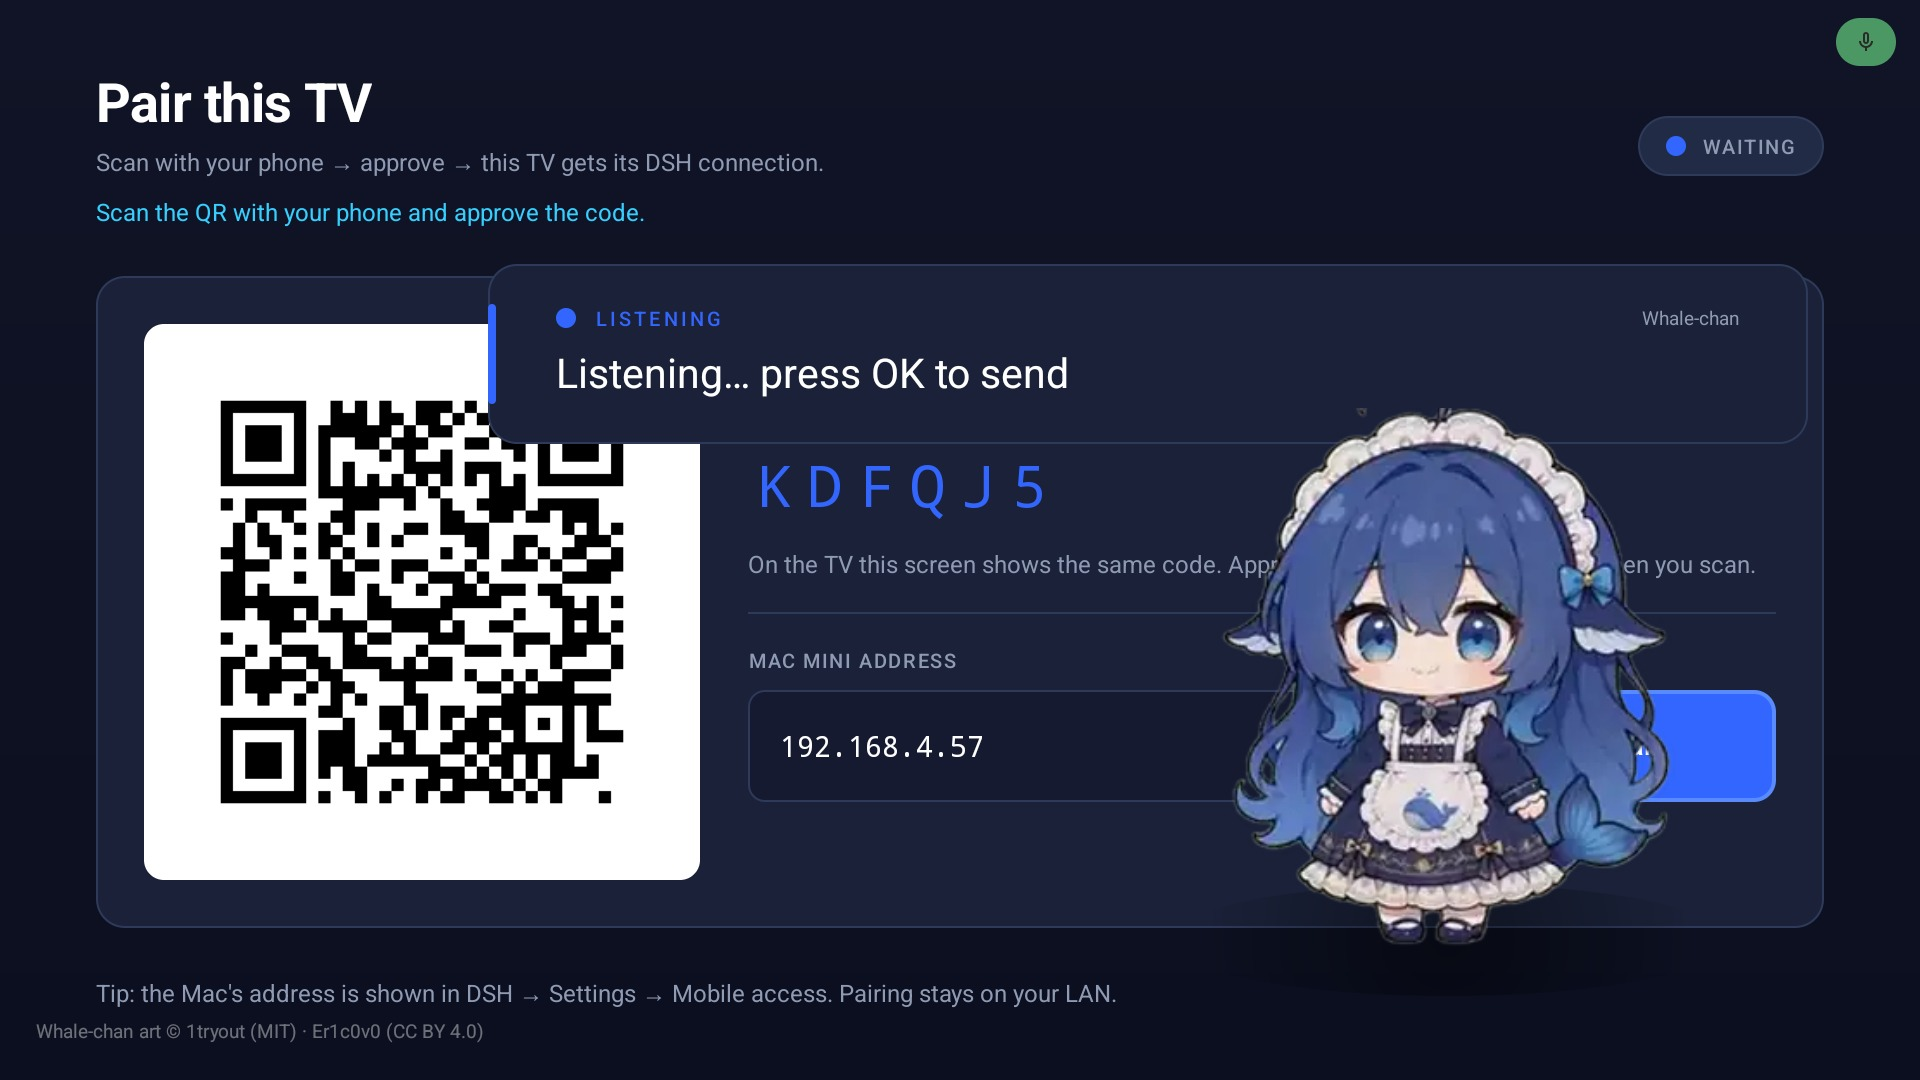
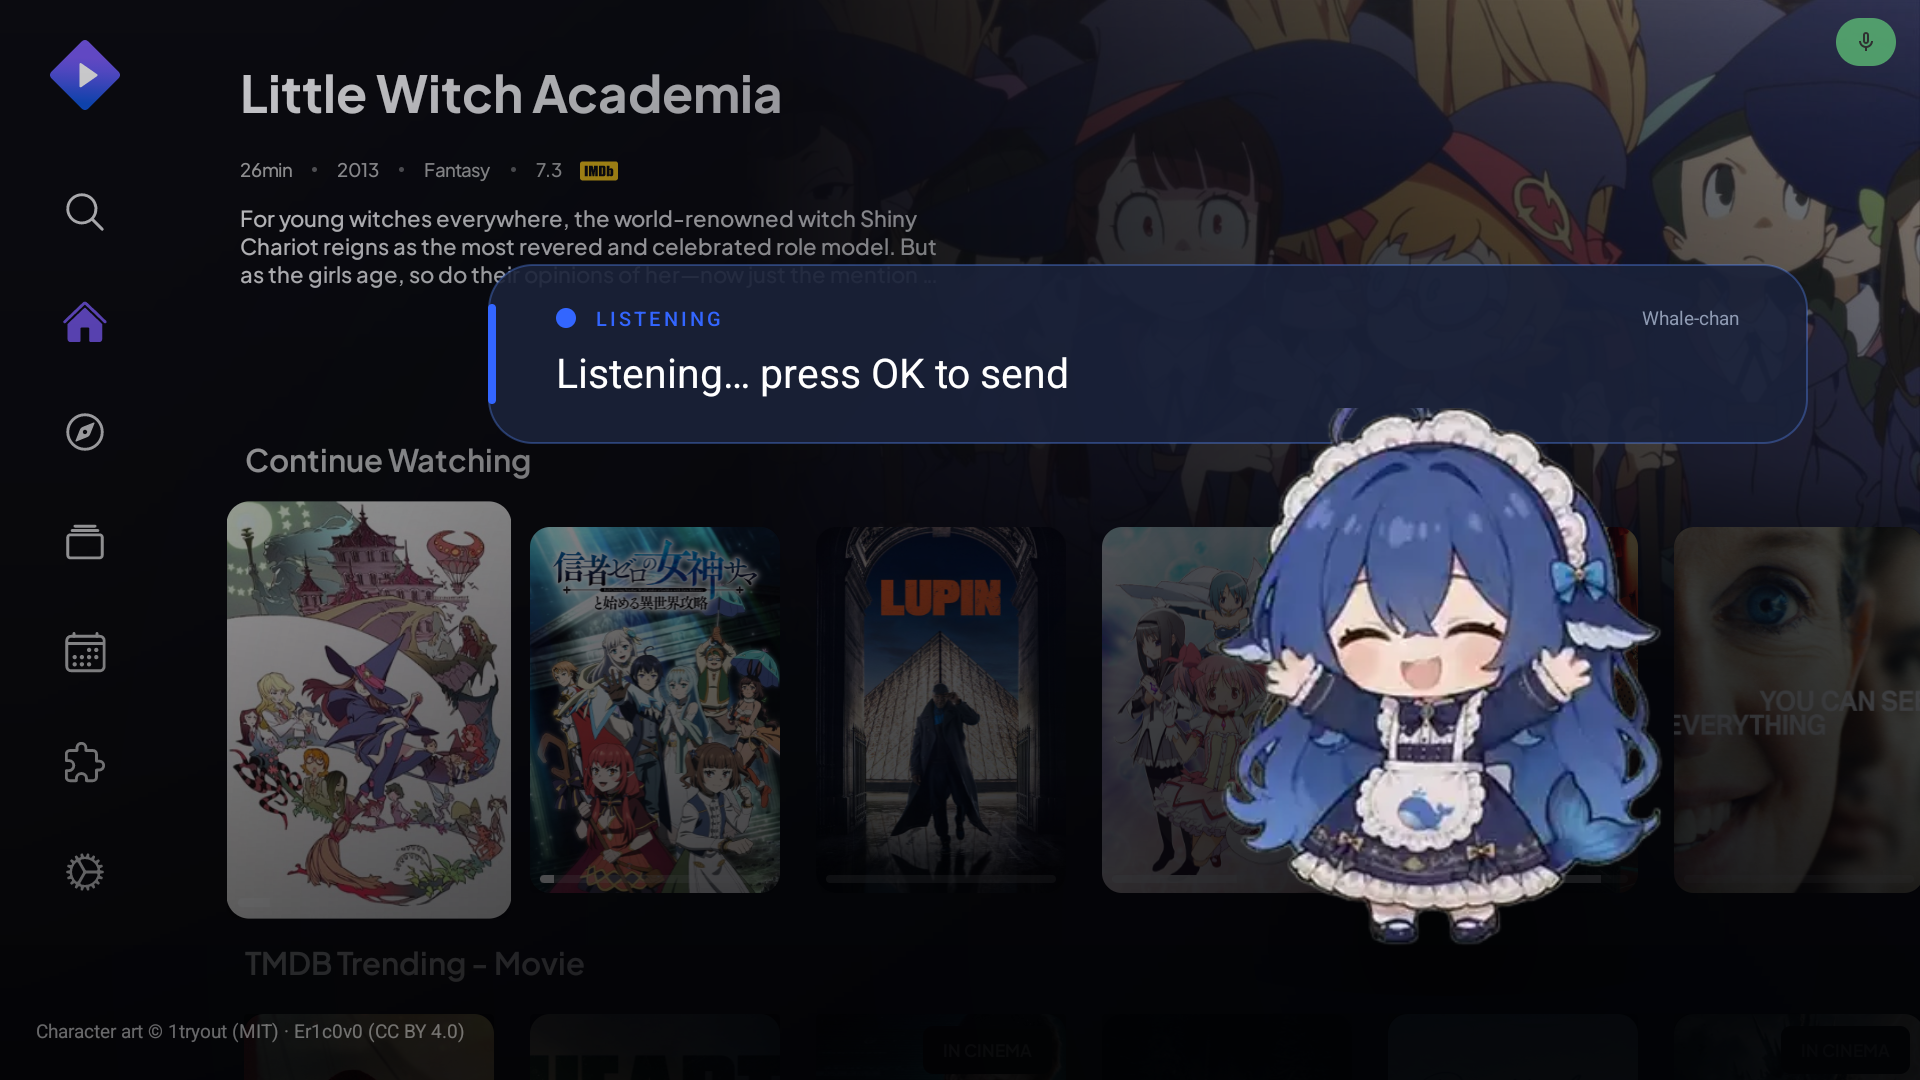
apk: blur-scrim overlay (gradient scrim + frosted bubble + blur-behind where supported)

diff --git a/android/tv-assistant/src/com/jp/dshtv/WhaleActivity.java b/android/tv-assistant/src/com/jp/dshtv/WhaleActivity.java
@@ -4,8 +4,11 @@ import android.Manifest;
 import android.app.Activity;
 import android.content.Intent;
 import android.content.pm.PackageManager;
+import android.os.Build;
 import android.os.Bundle;
 import android.view.KeyEvent;
+import android.view.Window;
+import android.view.WindowManager;
 import android.view.View;
 
 /** Launcher-tile fallback: same whale UI, listens as soon as it opens. */
@@ -17,6 +20,7 @@ public class WhaleActivity extends Activity {
     protected void onCreate(Bundle state) {
         super.onCreate(state);
         setContentView(R.layout.whale_session);
+        applyBlurBehind();
         ensureBridgeRunning();
         if (!WhaleConfig.paired(this)) {
             startActivity(new Intent(this, PairingActivity.class));
@@ -29,6 +33,30 @@ public class WhaleActivity extends Activity {
             return;
         }
         startListening();
+    }
+
+    /**
+     * Android 12+ can blur whatever is behind this window. The TV box reports no
+     * blur support, so the gradient scrim in the layout is the real fallback;
+     * this call is a no-op there and a bonus on supported devices.
+     */
+    private void applyBlurBehind() {
+        if (Build.VERSION.SDK_INT < 31) {
+            return;
+        }
+        try {
+            Window window = getWindow();
+            WindowManager.LayoutParams lp = window.getAttributes();
+            lp.flags |= WindowManager.LayoutParams.FLAG_BLUR_BEHIND;
+            lp.setBlurBehindRadius(dp(40));
+            window.setAttributes(lp);
+        } catch (Throwable ignored) {
+            // no blur support: the scrim carries the contrast
+        }
+    }
+
+    private int dp(int value) {
+        return (int) Math.round(value * getResources().getDisplayMetrics().density);
     }
 
     /** The merged APK also serves the TV bridge; keep it running. */

diff --git a/android/tv-assistant/src/com/jp/dshtv/WhaleSession.java b/android/tv-assistant/src/com/jp/dshtv/WhaleSession.java
@@ -2,6 +2,7 @@ package com.jp.dshtv;
 
 import android.app.Dialog;
 import android.content.Context;
+import android.os.Build;
 import android.os.Bundle;
 import android.service.voice.VoiceInteractionSession;
 import android.graphics.Color;
@@ -37,7 +38,13 @@ public class WhaleSession extends VoiceInteractionSession {
                 window.setBackgroundDrawable(new ColorDrawable(Color.TRANSPARENT));
                 window.addFlags(WindowManager.LayoutParams.FLAG_DIM_BEHIND);
                 window.addFlags(WindowManager.LayoutParams.FLAG_LAYOUT_IN_SCREEN);
-                window.setDimAmount(0.28f);
+                window.setDimAmount(0.20f);
+                if (Build.VERSION.SDK_INT >= 31) {
+                    WindowManager.LayoutParams lp = window.getAttributes();
+                    lp.flags |= WindowManager.LayoutParams.FLAG_BLUR_BEHIND;
+                    lp.setBlurBehindRadius(dp(40));
+                    window.setAttributes(lp);
+                }
             }
         } catch (Throwable ignored) {
             // window tweaks are best-effort; the transparent theme is the main lever
@@ -54,6 +61,10 @@ public class WhaleSession extends VoiceInteractionSession {
             });
         }
         ui.listen();
+    }
+
+    private int dp(int value) {
+        return (int) Math.round(value * getContext().getResources().getDisplayMetrics().density);
     }
 
     @Override

diff --git a/android/tv-assistant/src/com/jp/dshtv/WhaleUi.java b/android/tv-assistant/src/com/jp/dshtv/WhaleUi.java
@@ -102,7 +102,7 @@ public final class WhaleUi {
                                             return;
                                         }
                                         transcript = said;
-                                        setBubble("WHALE-CHAN", DOT_ACCENT, "“" + said + "”", "");
+                                        setBubble("ASSISTANT", DOT_ACCENT, "“" + said + "”", "");
                                         new Thread(new Runnable() {
                                             @Override
                                             public void run() {
@@ -184,7 +184,7 @@ public final class WhaleUi {
             reply = "(no reply)";
         }
         pet.play(R.raw.whale_celebrate);
-        setBubble("WHALE-CHAN", DOT_OK,
+        setBubble("ASSISTANT", DOT_OK,
                 transcript.length() > 0 ? "“" + transcript + "”" : "", reply);
         speak(reply);
         scheduleClose(12000);
